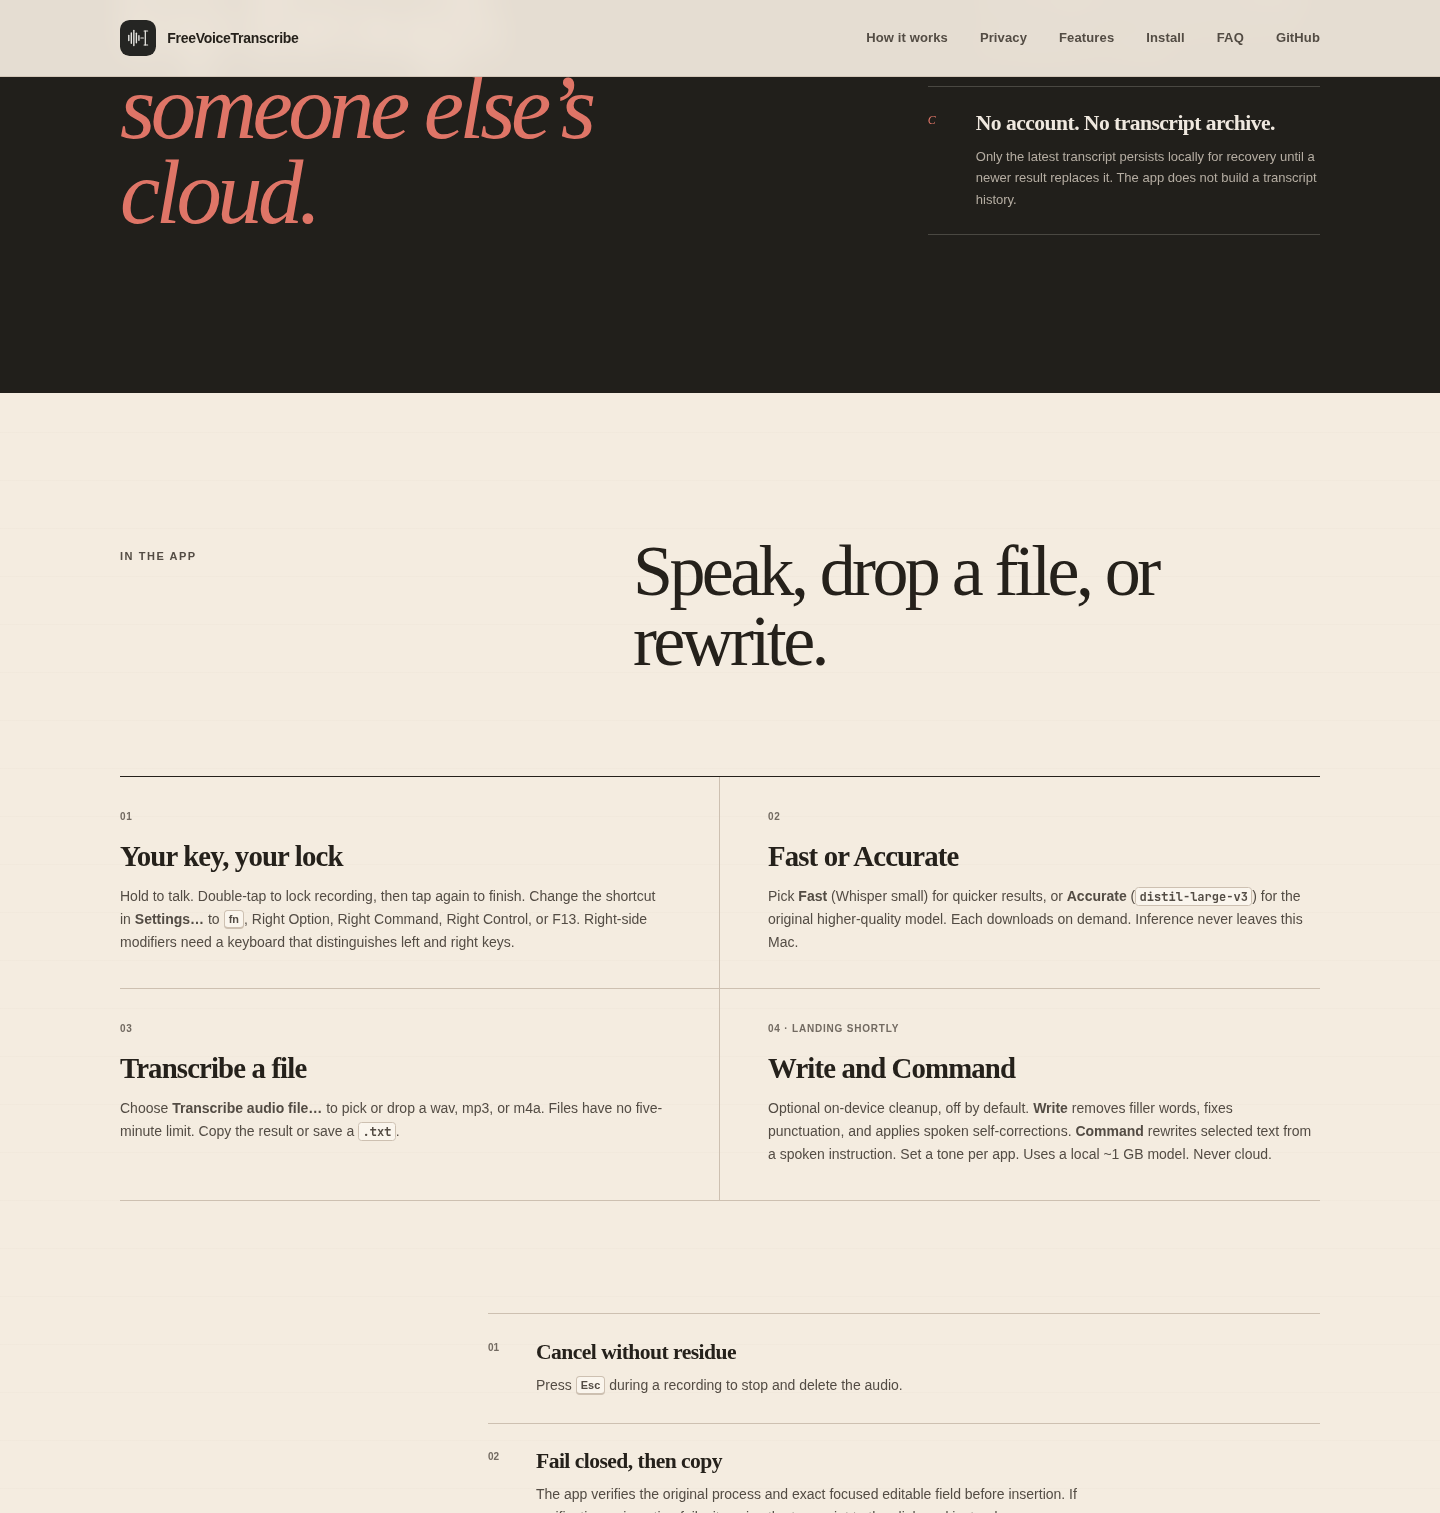
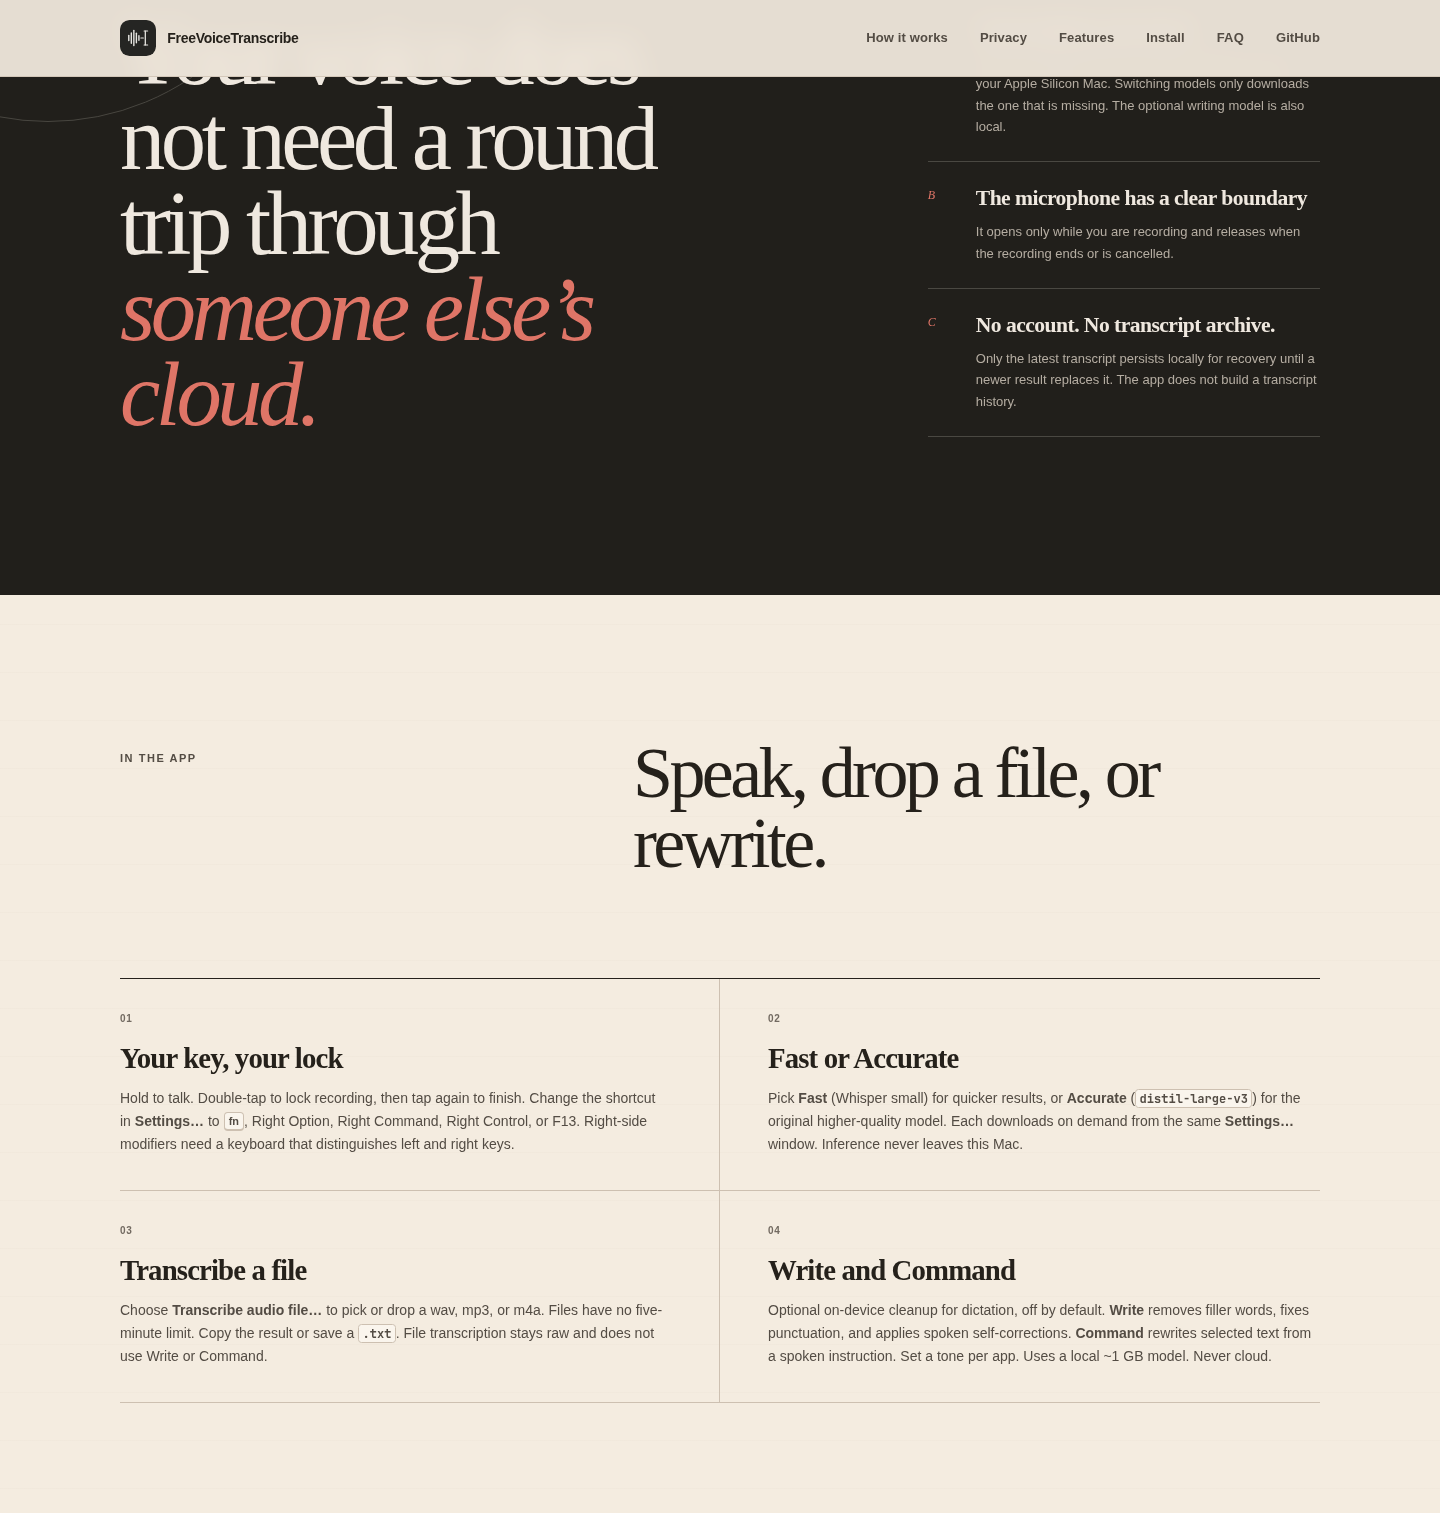
Describe shipped Write and Command after rebase onto main.
Remove the landing-shortly language now that on-device cleanup is merged. Note the single Settings window and that cleanup applies to dictation only.

diff --git a/site/index.html b/site/index.html
@@ -223,7 +223,7 @@
                 <p>
                   After you download Fast or Accurate, inference runs on your
                   Apple Silicon Mac. Switching models only downloads the one that
-                  is missing.
+                  is missing. The optional writing model is also local.
                 </p>
               </div>
             </article>
@@ -274,8 +274,8 @@
             <p>
               Pick <strong>Fast</strong> (Whisper small) for quicker results, or
               <strong>Accurate</strong> (<code>distil-large-v3</code>) for the
-              original higher-quality model. Each downloads on demand. Inference
-              never leaves this Mac.
+              original higher-quality model. Each downloads on demand from the
+              same <strong>Settings…</strong> window. Inference never leaves this Mac.
             </p>
           </article>
           <article>
@@ -284,18 +284,19 @@
             <p>
               Choose <strong>Transcribe audio file…</strong> to pick or drop a
               wav, mp3, or m4a. Files have no five-minute limit. Copy the result
-              or save a <code>.txt</code>.
+              or save a <code>.txt</code>. File transcription stays raw and does
+              not use Write or Command.
             </p>
           </article>
           <article>
-            <span class="capability-index">04 · Landing shortly</span>
+            <span class="capability-index">04</span>
             <h3>Write and Command</h3>
             <p>
-              Optional on-device cleanup, off by default. <strong>Write</strong>
-              removes filler words, fixes punctuation, and applies spoken
-              self-corrections. <strong>Command</strong> rewrites selected text
-              from a spoken instruction. Set a tone per app. Uses a local ~1&nbsp;GB
-              model. Never cloud.
+              Optional on-device cleanup for dictation, off by default.
+              <strong>Write</strong> removes filler words, fixes punctuation, and
+              applies spoken self-corrections. <strong>Command</strong> rewrites
+              selected text from a spoken instruction. Set a tone per app. Uses a
+              local ~1&nbsp;GB model. Never cloud.
             </p>
           </article>
         </div>
@@ -333,9 +334,10 @@
             <article>
               <span>04</span>
               <div>
-                <h3>A quiet menu-bar presence</h3>
+                <h3>One Settings window</h3>
                 <p>
-                  Setup and Settings stay available when you need them. The app
+                  <strong>Settings…</strong> holds the hotkey, Fast / Accurate,
+                  the optional writing-model download, and per-app tones. The app
                   stays out of the Dock when you do not.
                 </p>
               </div>
@@ -425,7 +427,7 @@ cd freevoicetranscribe</code></pre>
               <pre><code>./run.sh</code></pre>
             </li>
             <li>
-              <p>Follow the setup window: grant Microphone and Accessibility access, then download the selected local speech model. Change the hotkey or model later in Settings…</p>
+              <p>Follow the setup window: grant Microphone and Accessibility access, then download the selected local speech model. Open Settings… later for the hotkey, Fast / Accurate, the optional writing model, and per-app tones.</p>
             </li>
           </ol>
           <p class="requirements-note">
@@ -445,9 +447,10 @@ cd freevoicetranscribe</code></pre>
             <summary>Does it need an internet connection?<span aria-hidden="true"></span></summary>
             <div class="answer">
               <p>
-                Only to download the speech model you select. A second model
-                downloads only if you switch and it is not already on disk. Once a
-                model is on your Mac, transcription runs locally.
+                Only to download the speech model you select, or the optional
+                writing model if you use Write or Command. A second speech model
+                downloads only if you switch and it is not already on disk. Once
+                a model is on your Mac, work stays local.
               </p>
             </div>
           </details>
@@ -483,6 +486,7 @@ cd freevoicetranscribe</code></pre>
                 bar, then pick or drop a wav, mp3, m4a, or similar file. There is
                 no five-minute limit for files. Copy the result or save it as a
                 <code>.txt</code>. The original file is not changed or uploaded.
+                File transcription stays raw: Write and Command do not run on it.
                 Live hold-to-talk recordings are still capped at five minutes.
               </p>
             </div>
@@ -491,13 +495,15 @@ cd freevoicetranscribe</code></pre>
             <summary>What are Write and Command?<span aria-hidden="true"></span></summary>
             <div class="answer">
               <p>
-                They are landing shortly. Both are optional, off by default, and
-                stay on this Mac. <strong>Dictate</strong> remains the default and
-                never uses a writing model. <strong>Write</strong> cleans filler
-                words, punctuation, capitalization, and spoken self-corrections.
-                <strong>Command</strong> rewrites selected text from a spoken
-                instruction. You can set a tone per app. They use a local ~1&nbsp;GB
-                model and never send text to a server.
+                Both are optional, off by default, and stay on this Mac.
+                <strong>Dictate</strong> is the default and never uses a writing
+                model. <strong>Write</strong> cleans filler words, punctuation,
+                capitalization, and spoken self-corrections. <strong>Command</strong>
+                rewrites selected text from a spoken instruction. You can set a
+                tone per app. They use a local ~1&nbsp;GB model and never send
+                text to a server. Cleanup applies to dictation only. Download the
+                writing model from the same <strong>Settings…</strong> window that
+                holds the hotkey and Fast / Accurate picker.
               </p>
             </div>
           </details>
